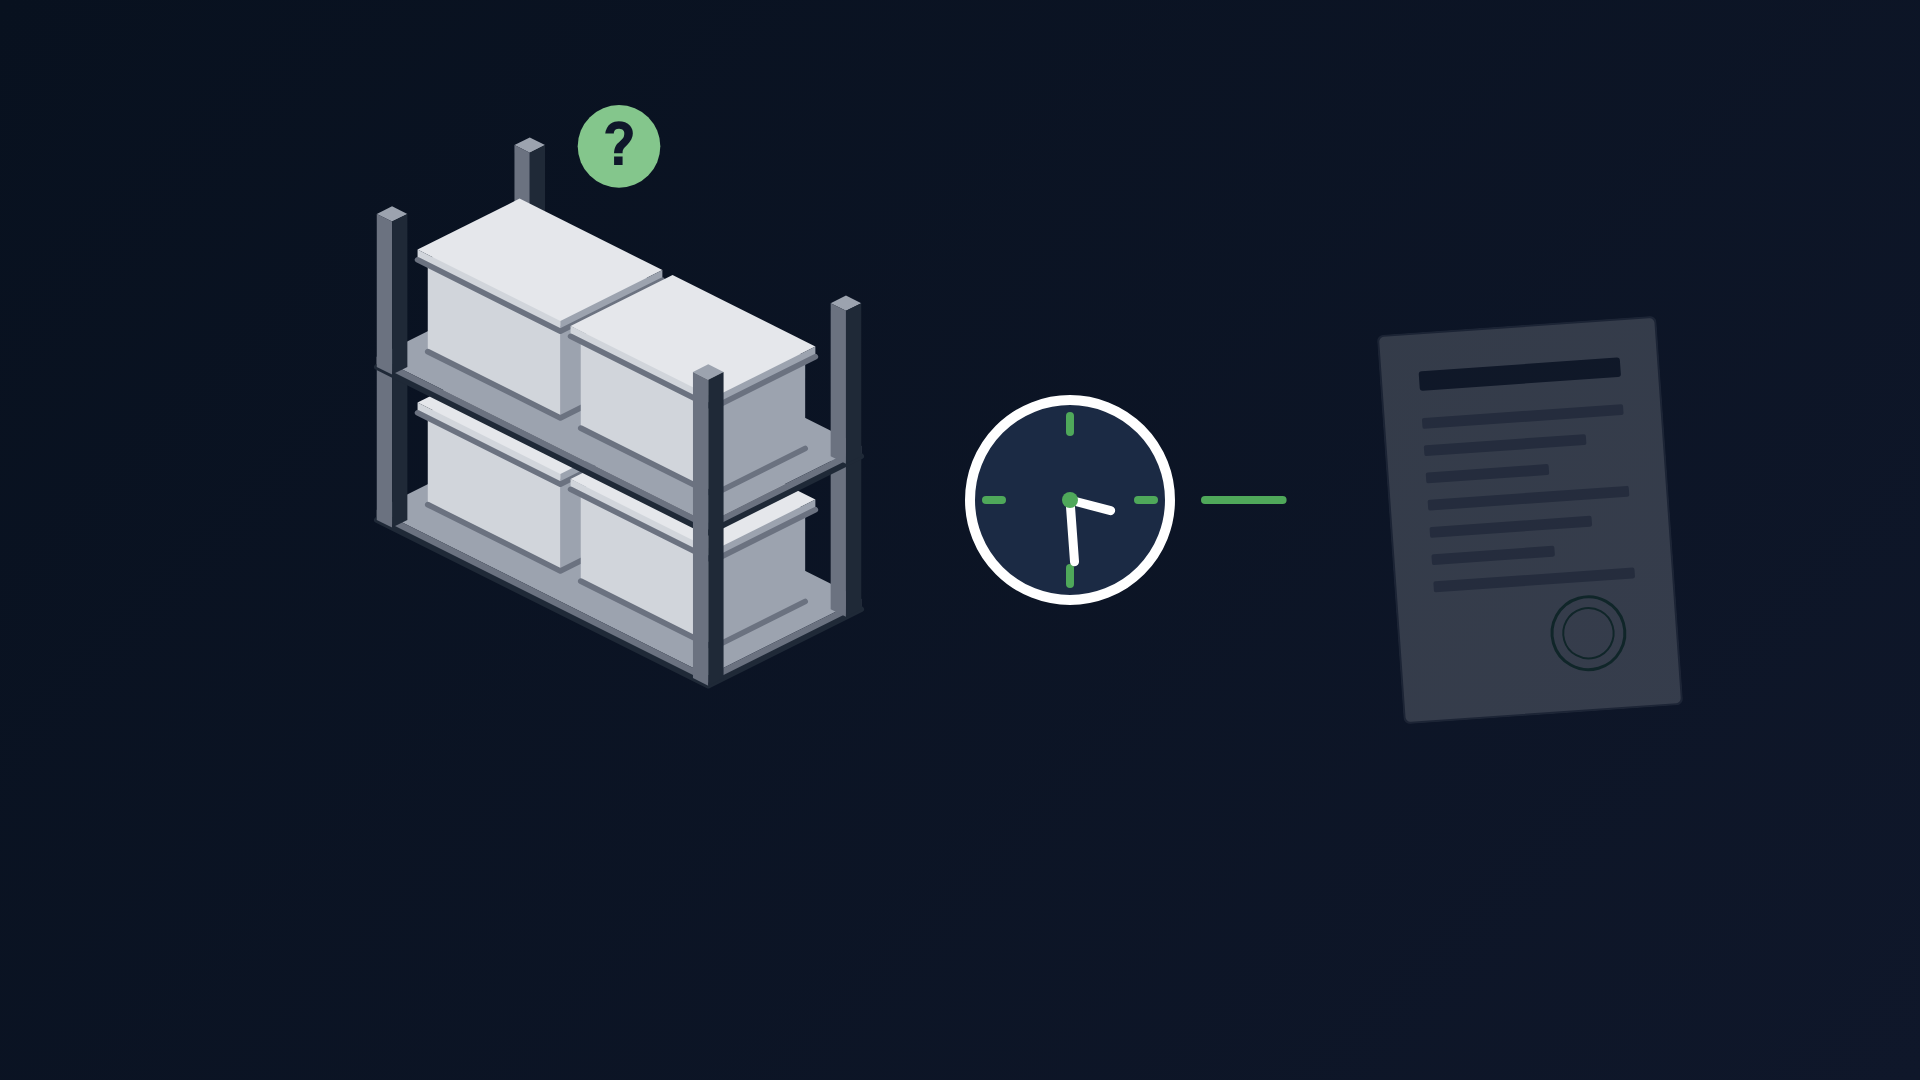
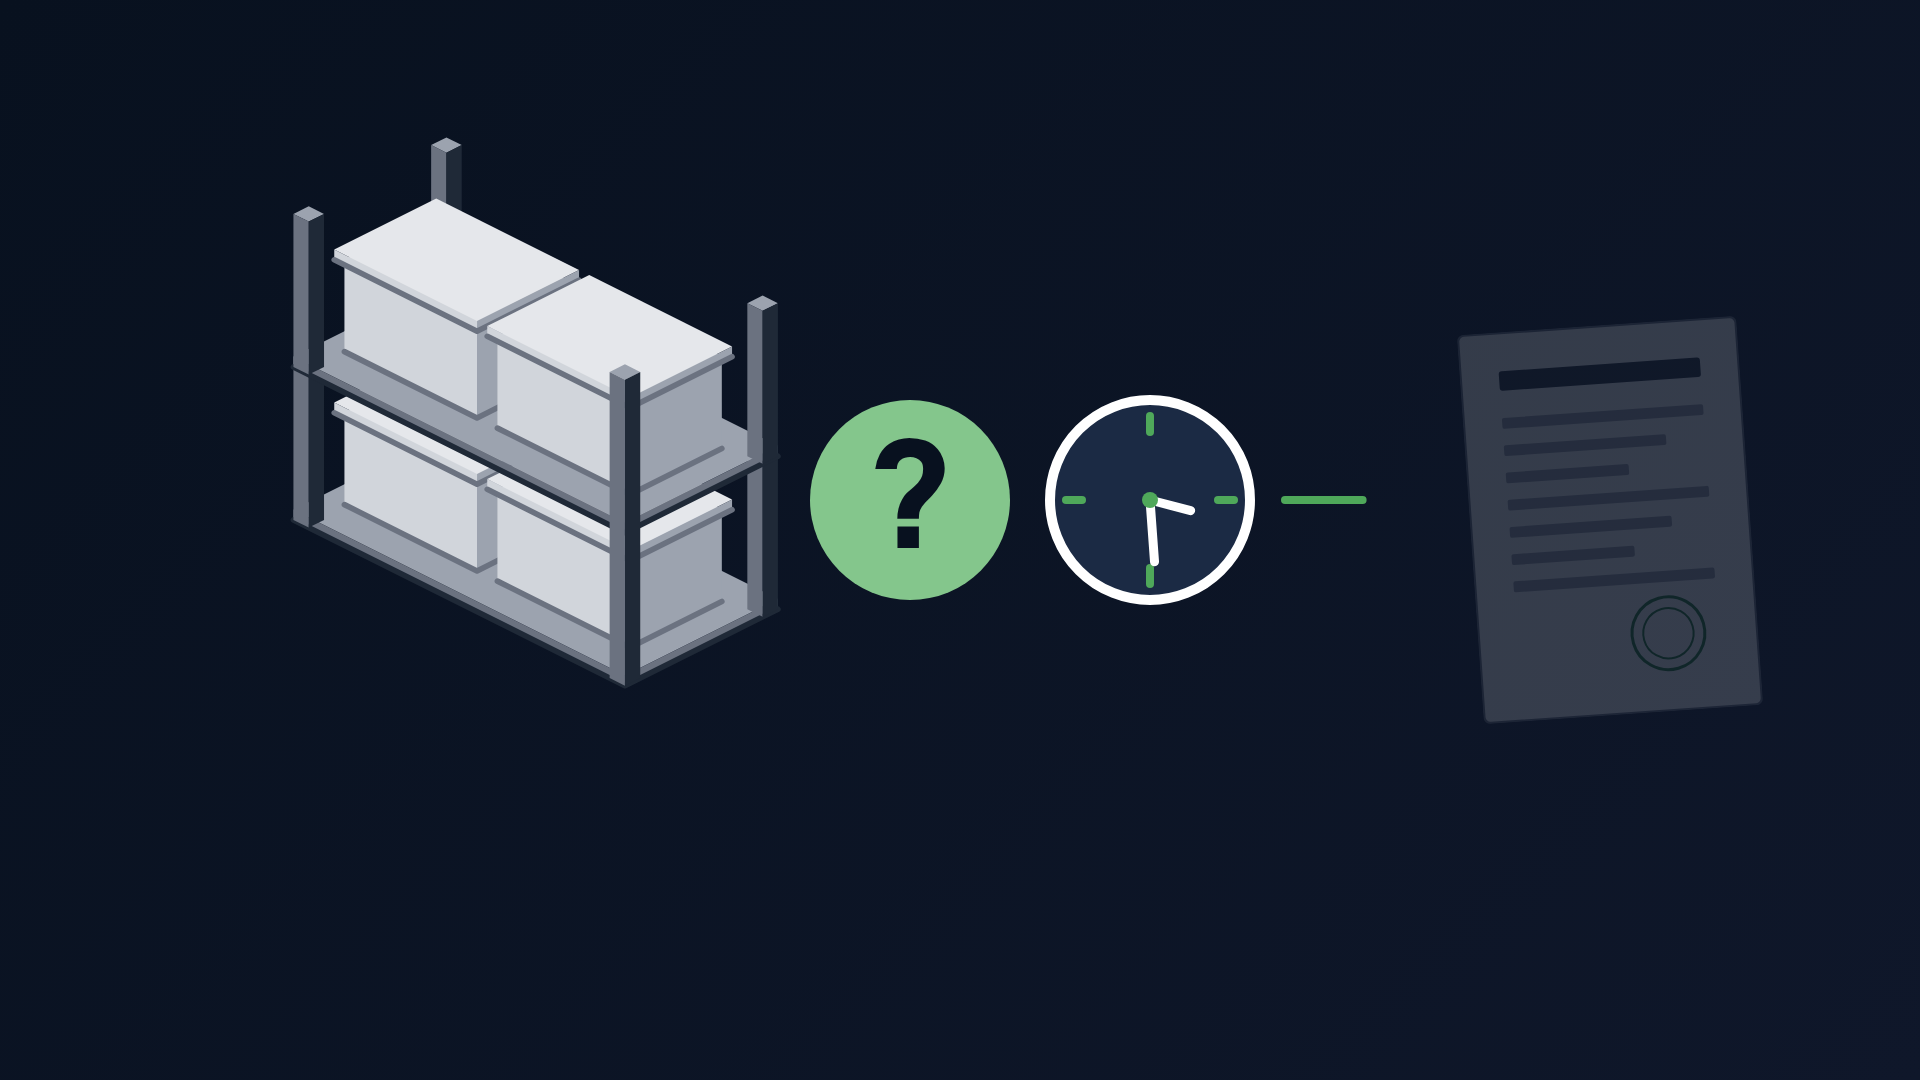
Kolo 8: bublinky otáznikov (C3), veľký otáznik + hodiny vedľa regálu (C4), KR_01 pod krabicou (C5), QR na všetkých krabiciach (C7)
Claude-Session: https://claude.ai/code/session_0174g5XfE49UzAEjnWwaQFuK

Changed region(s): [[0.125, 0.0917, 0.9375, 0.6722]]

diff --git a/src/scenes/C4_Cena.tsx b/src/scenes/C4_Cena.tsx
@@ -8,7 +8,7 @@ import { PriceTag, QuestionMark, Sheet } from '../components/Illustrations';
 import { drawProps, pop, settle, tween } from '../lib/anim';
 import { captions } from '../copy/sk';
 import { BRAND, CM, FONT, NAVY, SAFE } from '../theme';
-import { CAM_END, SEARCH_QMS, SV, TARGET_SHELF, VB } from './C3_Sklad';
+import { CAM_END, SV, TARGET_SHELF, VB } from './C3_Sklad';
 
 /**
  * C4 - Cena. Zacina rovnakym zaberom ako koniec C3. Regal sa odsunie
@@ -24,8 +24,6 @@ export const C4_Cena: React.FC = () => {
   const frame = useCurrentFrame();
   const showCap = useCaptions();
   const tw = (s: number, d: number) => tween(frame, s, d);
-  // male otazniky z C3 sa stiahnu do jedneho bodu a zaniknu; na ich mieste jeden velky
-  const merge = tw(800, 500);
   const bigQ = pop(frame, 1100);
   const clock = settle(frame, 2600);
   const hand = tw(2600, 1600) * 720;
@@ -35,11 +33,9 @@ export const C4_Cena: React.FC = () => {
   const tagA = pop(frame, 4600);
   const big = pop(frame, 5400, { damping: 12 });
   const s = TARGET_SHELF;
-  const top = 2 * CM.shelf.level + 4;
-  const bigQAt = iso(s.x + 65, s.y + 30, top + 40);
   return (
     <Scene mode="dark">
-      <Camera keys={[{ ms: 0, ...CAM_END }, { ms: 1700, x: CAM_END.x + 400 / CAM_END.scale, y: CAM_END.y + 70 / CAM_END.scale, scale: 1.5 }]}>
+      <Camera keys={[{ ms: 0, ...CAM_END }, { ms: 1700, x: CAM_END.x + 500 / CAM_END.scale, y: CAM_END.y + 70 / CAM_END.scale, scale: 1.5 }]}>
         <svg width={1920} height={1080} viewBox={`${VB.x} ${VB.y} ${1920 / SV} ${1080 / SV}`} style={{ position: 'absolute', left: 0, top: 0 }}>
           <ShelfFrame x={s.x} y={s.y} w={CM.shelf.w} d={CM.shelf.d} levels={2} levelH={CM.shelf.level} topBoard={false}>
             {(lvl) => [0, 1].map((k) => <Carton key={`${lvl}${k}`} x={s.x + 8 + k * 60} y={s.y + 12} z={lvl * CM.shelf.level + 4} />)}
@@ -48,18 +44,18 @@ export const C4_Cena: React.FC = () => {
             const [qx, qy] = iso(s.x + 65, s.y + 30, 2 * CM.shelf.level + 14);
             return <QuestionMark x={qx} y={qy} s={0.4 * (1 - tw(800, 500))} />;
           })()}
-          {SEARCH_QMS.map(([x, y, z], i) => {
-            const [qx, qy] = iso(x, y, z);
-            const px = qx + (bigQAt[0] - qx) * merge,
-              py = qy + (bigQAt[1] - qy) * merge;
-            return <QuestionMark key={i} x={px} y={py} s={0.3 * (1 - merge)} />;
-          })}
-          <QuestionMark x={bigQAt[0]} y={bigQAt[1]} s={bigQ * 0.9} />
         </svg>
       </Camera>
 
+      {/* velky otaznik vedla regalu (rovnaka velkost ako hodiny) */}
+      <svg width={240} height={240} viewBox="-120 -120 240 240" style={{ position: 'absolute', left: 790, top: 380, opacity: Math.min(1, bigQ * 1.4), transform: `scale(${0.6 + 0.4 * bigQ})` }}>
+        <circle r={100} fill={BRAND[300]} />
+        <text x={0} y={48} textAnchor="middle" fontFamily="Manrope" fontWeight={800} fontSize={150} fill={NAVY[900]}>
+          ?
+        </text>
+      </svg>
       {/* hodiny v strede medzery medzi regalom a vykresom */}
-      <svg width={240} height={240} viewBox="-120 -120 240 240" style={{ position: 'absolute', left: 950, top: 380, opacity: clock, transform: `scale(${0.6 + 0.4 * clock})` }}>
+      <svg width={240} height={240} viewBox="-120 -120 240 240" style={{ position: 'absolute', left: 1030, top: 380, opacity: clock, transform: `scale(${0.6 + 0.4 * clock})` }}>
         <circle r={100} fill="#1B2A44" stroke="#fff" strokeWidth={10} />
         {[0, 90, 180, 270].map((a) => (
           <line key={a} x1={0} y1={-84} x2={0} y2={-68} stroke={BRAND[400]} strokeWidth={8} strokeLinecap="round" transform={`rotate(${a})`} />
@@ -69,7 +65,7 @@ export const C4_Cena: React.FC = () => {
         <circle r={8} fill={BRAND[400]} />
       </svg>
       {/* sipka hodiny -> vykres */}
-      <svg width={180} height={80} viewBox="0 0 180 80" style={{ position: 'absolute', left: 1195, top: 460, opacity: arrow > 0 ? 1 : 0 }}>
+      <svg width={180} height={80} viewBox="0 0 180 80" style={{ position: 'absolute', left: 1275, top: 460, opacity: arrow > 0 ? 1 : 0 }}>
         <path d="M10 40 H150" fill="none" stroke={BRAND[400]} strokeWidth={8} strokeLinecap="round" {...drawProps(arrow, 140)} />
         <path d="M122 12 L156 40 L122 68" fill="none" stroke={BRAND[400]} strokeWidth={8} strokeLinecap="round" strokeLinejoin="round" opacity={arrow > 0.85 ? 1 : 0} />
       </svg>
@@ -77,13 +73,13 @@ export const C4_Cena: React.FC = () => {
       <div style={{ position: 'absolute', left: 330, top: 760 }}>
         <PriceTag text="skladovanie" s={tagA} color={BRAND[700]} />
       </div>
-      <div style={{ position: 'absolute', left: 1390, top: 300, opacity: sheet, transform: `translateY(${(1 - sheet) * 30}px) rotate(-4deg)` }}>
+      <div style={{ position: 'absolute', left: 1470, top: 300, opacity: sheet, transform: `translateY(${(1 - sheet) * 30}px) rotate(-4deg)` }}>
         <Sheet w={280} h={390} lines={7} stamp />
       </div>
-      <div style={{ position: 'absolute', left: 1390, top: 740 }}>
+      <div style={{ position: 'absolute', left: 1470, top: 740 }}>
         <PriceTag text="nové vyhotovenie" s={tagB} color={BRAND[700]} />
       </div>
-      <div style={{ position: 'absolute', left: 0, right: 0, top: 20, textAlign: 'center', opacity: big, transform: `scale(${0.6 + 0.4 * big})`, paddingLeft: 220 }}>
+      <div style={{ position: 'absolute', left: 0, right: 0, top: 20, textAlign: 'center', opacity: big, transform: `scale(${0.6 + 0.4 * big})`, paddingLeft: 380 }}>
         <span style={{ fontFamily: FONT.display, fontWeight: 800, fontSize: 170, lineHeight: 0.9, color: BRAND[400], letterSpacing: '-0.04em' }}>2×</span>
       </div>
       {showCap ? <Caption text={captions.C4} mode="dark" t={settle(frame, 5800)} y={SAFE.captionY} /> : null}

diff --git a/src/scenes/C3_Sklad.tsx b/src/scenes/C3_Sklad.tsx
@@ -157,12 +157,15 @@ export const C3_Sklad: React.FC = () => {
                 </ShelfFrame>
                 {isTarget
                   ? SEARCH_QMS.map(([x, y, z, ms], i) => {
-                      const [qx, qy] = iso(x, y, z);
-                      return <QuestionMark key={`q${i}`} x={qx} y={qy} s={pop(frame, ms) * 0.3} />;
+                      // bublinka: vyskoci, stupa a vlni sa, na konci zanikne (zivot 1,6 s)
+                      const life = tw(ms, 1600);
+                      const fade = 1 - tw(ms + 1200, 400);
+                      const [qx, qy] = iso(x + Math.sin(life * Math.PI * 2 + i) * 5, y, z + life * 22);
+                      return <QuestionMark key={`q${i}`} x={qx} y={qy} s={pop(frame, ms) * 0.3 * (0.6 + 0.4 * fade)} color={`rgba(134,194,140,${fade})`} />;
                     })
                   : null}
                 {isTarget ? (() => {
-                  const [qx, qy] = iso(s.x + 65, s.y + 30, 2 * CM.shelf.level + 14);
+                  const [qx, qy] = iso(s.x + 65 + Math.sin(frame / 9) * 2, s.y + 30, 2 * CM.shelf.level + 14 + Math.sin(frame / 12) * 3);
                   return <QuestionMark x={qx} y={qy} s={qEnd * 0.4} />;
                 })() : null}
               </g>

diff --git a/src/scenes/C7_Hierarchia.tsx b/src/scenes/C7_Hierarchia.tsx
@@ -69,10 +69,9 @@ export const C7_Hierarchia: React.FC = () => {
                   {[0, 1].map((k) => {
                     const i = lv * 2 + k;
                     const p = placed(i);
-                    const isMain = i === 2;
                     return (
                       <g key={k} transform={`translate(0 ${(1 - p) * -30})`} opacity={p}>
-                        <Carton x={-57 + k * 60} y={-18} z={lv * 44 + 4} qr={isMain ? p : 0} />
+                        <Carton x={-57 + k * 60} y={-18} z={lv * 44 + 4} qr={p} />
                       </g>
                     );
                   })}

diff --git a/src/scenes/C5_Teren.tsx b/src/scenes/C5_Teren.tsx
@@ -84,12 +84,13 @@ export const C5_Teren: React.FC = () => {
 
         <ArchiveBox state={box} size={BOX} style={{ position: 'absolute', left: boxLeft, top: boxTop }} />
 
-        {/* ID nad krabicou (ink, nie zelene) */}
+        {/* ID pod krabicou (ink, nie zelene) */}
         <div
           style={{
             position: 'absolute',
-            left: 880,
-            top: 90,
+            left: '50%',
+            marginLeft: -70,
+            top: 770,
             padding: '8px 20px',
             borderRadius: 8,
             background: INK[900],

diff --git a/STORYBOARD.md b/STORYBOARD.md
@@ -1,4 +1,4 @@
-# Storyboard – Assetin Archives (kolo 7)
+# Storyboard – Assetin Archives (kolo 8)
 
 Stav: ☐ still na schválenie · ☑ still schválený · ▶ animácia hotová · 🎞 finálne MP4
 
@@ -13,11 +13,11 @@ strihový bod pre footage; náhľad Full má tvrdé strihy.
 |---|---|---|---|---|---|---|
 | C1-Intro | Intro | navy | Lockup (domček + „assetin“/„Archives“) v strede; texty sa zasunú do domčeka a domček sa pritom presunie presne do stredu; kamera preletí dovnútra domčeka do navy | – | 5 s | ☐ ▶ |
 | C2-Kancelaria | Skriňa pri stole | navy | Zelený panáčik príde ku skrini (stolička pred stolom), otvorí krídlo (otáča sa okolo pántu), vnútri šanóny, rolky, listy; hľadá („?“ tesne nad hlavou), vyhadzuje veci – vyletia oblúkom a dopadnú v rade pred skriňou | 3 s „Dokumentáciu máte. Nikto ju nevie nájsť.“ | 8 s | ☐ ▶ |
-| C3-Sklad | Sklad → regál | navy | Postavička klučkuje uličkou (cesta pod objektmi) a zastaví pred stredným regálom, „?“; kamera nájde na jeho hornú policu s dvoma krabicami (regál bez vrchnej dosky, vidno do krabíc), sklad vybledne; prvá krabica: veko sa odklopí, vidno dno a zložky vnútri, zložky sa postupne vyberú a vrátia (pri každej vyskočí malý „?“ nad krabicou), veko dole; to isté druhá; nič sa nenašlo, väčší „?“ | 4 s „V sklade to nie je lepšie.“ · 11,5 s „Je to niekde tam.“ | 14 s | ☐ ▶ |
-| C4-Cena | 2× | navy | Začína rovnakým regálom ako koniec C3; regál sa odsunie doľava, malé otázniky z C3 sa zlejú do jedného veľkého „?“; hodiny (tmavý ciferník, biely prstenec) v strede medzery, točiaca sa ručička (hľadanie trvá), šípka k výkresu s pečiatkou (rýchlejšie spraviť nanovo); cenovky; až potom „2×“ | 5,8 s „Zaplatené dvakrát za tú istú dokumentáciu.“ | 9 s | ☐ ▶ |
-| C5-Teren →📹 | V sklade | biela | Dlaždica z webu (veko, zložky, hustejšie QR B/W), hárok nálepiek A4, mobil odfotí štítok, ID KR_01; nájazd do displeja → biely frame | 5 s „Nalepiť QR, odfotiť. Celá práca v teréne.“ | 10 s | ☐ ▶ |
+| C3-Sklad | Sklad → regál | navy | Postavička klučkuje uličkou (cesta pod objektmi) a zastaví pred stredným regálom, „?“; kamera nájde na jeho hornú policu s dvoma krabicami (regál bez vrchnej dosky, vidno do krabíc), sklad vybledne; prvá krabica: veko sa odklopí, vidno dno a zložky vnútri, zložky sa postupne vyberú a vrátia (pri každej vyskočí bublinka „?“, poletuje a zanikne), veko dole; to isté druhá; nič sa nenašlo, väčší „?“ | 4 s „V sklade to nie je lepšie.“ · 11,5 s „Je to niekde tam.“ | 14 s | ☐ ▶ |
+| C4-Cena | 2× | navy | Začína rovnakým regálom ako koniec C3; regál sa odsunie doľava, vedľa neho veľký „?“, vedľa hodiny rovnakej veľkosti s točiacou sa ručičkou (hľadanie trvá), šípka k výkresu s pečiatkou (rýchlejšie spraviť nanovo); cenovky; až potom „2×“ | 5,8 s „Zaplatené dvakrát za tú istú dokumentáciu.“ | 9 s | ☐ ▶ |
+| C5-Teren →📹 | V sklade | biela | Dlaždica z webu (veko, zložky, hustejšie QR B/W), hárok nálepiek A4, mobil odfotí štítok, ID KR_01 pod krabicou; nájazd do displeja → biely frame | 5 s „Nalepiť QR, odfotiť. Celá práca v teréne.“ | 10 s | ☐ ▶ |
 | C6-Spracovanie →📹 (?) | Fotka → aplikácia | biela | Bez zmeny; možno vypadne a footage pôjde rovno za C5 | 3 s „Text z fotky rozpozná a navrhne údaje.“ | 7 s | ☐ ▶ |
-| C7-Hierarchia →📹 | Hierarchia + sken | biela | Začína tou istou krabicou ako C5 (KR_01), kamera sa oddiali, vedľa sa objavia dve rovnaké krabice s medzerou a KR_01 sa do nej zaradí; nad ňou vyrastie prázdna polica (2 rady), pod ňou zložky a dokumenty; mobil naskenuje krabicu, vetva sa zvýrazní zelenou čiarou; kamera nájde späť na policu, krabice sa do nej poukladajú (KR_01 s QR); strom vybledne, mobil nájde na celý frame → footage | 3 s „Každá položka má svoje miesto.“ | 12 s | ☐ ▶ |
+| C7-Hierarchia →📹 | Hierarchia + sken | biela | Začína tou istou krabicou ako C5 (KR_01), kamera sa oddiali, vedľa sa objavia dve rovnaké krabice s medzerou a KR_01 sa do nej zaradí; nad ňou vyrastie prázdna polica (2 rady), pod ňou zložky a dokumenty; mobil naskenuje krabicu, vetva sa zvýrazní zelenou čiarou; kamera nájde späť na policu, krabice sa do nej poukladajú (všetky s QR); strom vybledne, mobil nájde na celý frame → footage | 3 s „Každá položka má svoje miesto.“ | 12 s | ☐ ▶ |
 | C8-Pilot | Jedna krabica | biela | Bez zmeny (upraví sa neskôr) | 2 s „Začneme jednou krabicou.“ | 7 s | ☐ ▶ |
 | C9-Outro | Outro | zelená | Logo, wordmark, „Assetin, s. r. o.“, web. Bez kontaktov | – | 5 s | ☐ ▶ |
 
@@ -45,7 +45,7 @@ S04-Pokusy (Excel a skener), S10-Nasadenie (U nás / U vás) vo Folder „Option
 - kolo 1: „vyzerá ako prezentácia, priveľa textu, nie je miesto na footage“ → kolo 2.
 - kolo 2: „mierka ikon nesedí, chýba kancelária, texty sa prekrývajú s ikonami, simulácia UI je zbytočná (príde footage), zelené QR, presahy medzi scénami“ → kolo 3 (tento stav).
 - kolo 3 + oprava QR/kancelárie: schválené → Fáza 2 (finálne MP4).
-- kolo 4 až 7 (pripomienky z review stránky, viď FEEDBACK.md): zapracované; nové MP4 na review stránke.
+- kolo 4 až 8 (pripomienky z review stránky, viď FEEDBACK.md): zapracované; nové MP4 na review stránke.
 
 ## Review stránka
 

diff --git a/FEEDBACK.md b/FEEDBACK.md
@@ -40,3 +40,12 @@
 | C3 Sklad | Otázniky majú začať vyskakovať skôr, cca keď sa vytiahne prvá zložka. | Malý „?“ vyskočí nad krabicou pri každom vytiahnutí zložky (3× box A, 3× box B), ostávajú; záverečný väčší „?“ ostáva. |
 | C4 Cena | Má ostať jeden veľký otáznik, potom ide čas (hodiny), potom 2×. | Malé otázniky z konca C3 sa stiahnu do jedného bodu a na ich mieste vyskočí jeden veľký „?“; zhluk šiestich otáznikov zrušený. Hodiny → šípka → výkres + cenovky → 2× ostávajú (potvrdené). |
 | C7 Hierarchia | Polica bez krabíc (vetvia sa nižšie); najprv rozovrieť celý strom, potom priblížiť späť na policu s poukladanými krabicami; zložky nevidno/prekrývajú sa. | Uzol police je prázdny rám; rozostupy úrovní väčšie (nič sa neprekrýva). Po skene kamera nájde späť na policu a krabice sa do nej poukladajú (KR_01 s QR); potom mobil nájde na frame. Klip 12 s (potvrdené). |
+
+## Kolo 8 (20. 9. 2026, 19:04)
+
+| Klip | Pripomienka (skrátene) | Riešenie |
+|---|---|---|
+| C3 Sklad | Otázniky ako bublinky: objavia sa, poletujú a zaniknú. | Každý malý „?“ vyskočí, stúpa a vlní sa do strán, po 1,6 s zanikne; záverečný „?“ jemne pláva. |
+| C4 Cena | Veľký otáznik vedľa regálu vo veľkosti hodín, hodiny vedľa neho, potom šípka na dokument; nad tým 2× a text. | Regál viac vľavo; veľký „?“ (Ø 200) vedľa regálu, hodiny rovnakej veľkosti vedľa neho, šípka → výkres s cenovkami, „2×“ hore, caption „Zaplatené dvakrát…“. |
+| C5 Terén | KR_01 dať pod krabicu. | Štítok KR_01 je pod podstavcom krabice, na stred. |
+| C7 Hierarchia | Všetky krabice majú mať QR. | Všetky štyri krabice na polici dostanú QR pri poukladaní. |
